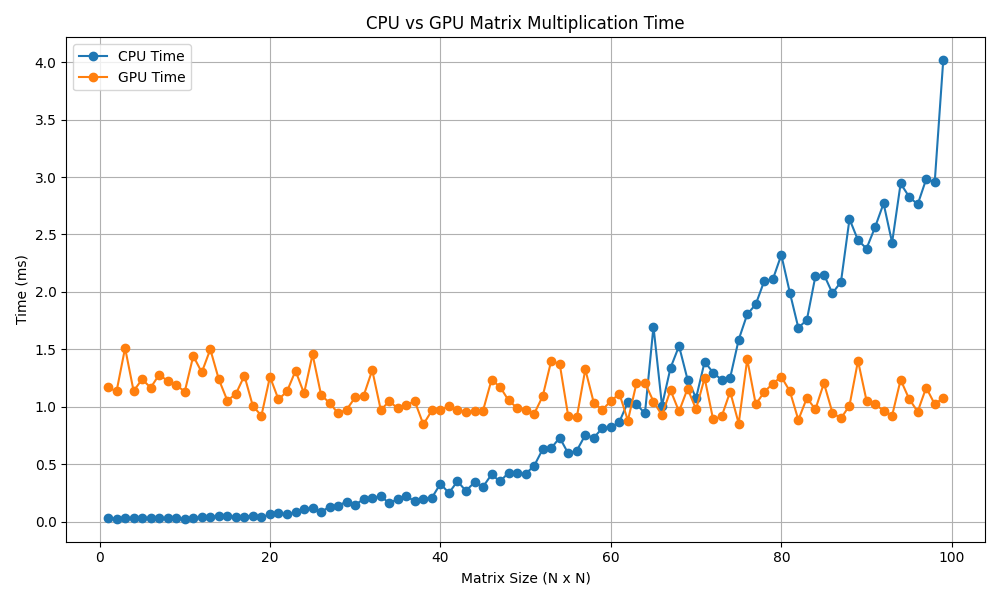
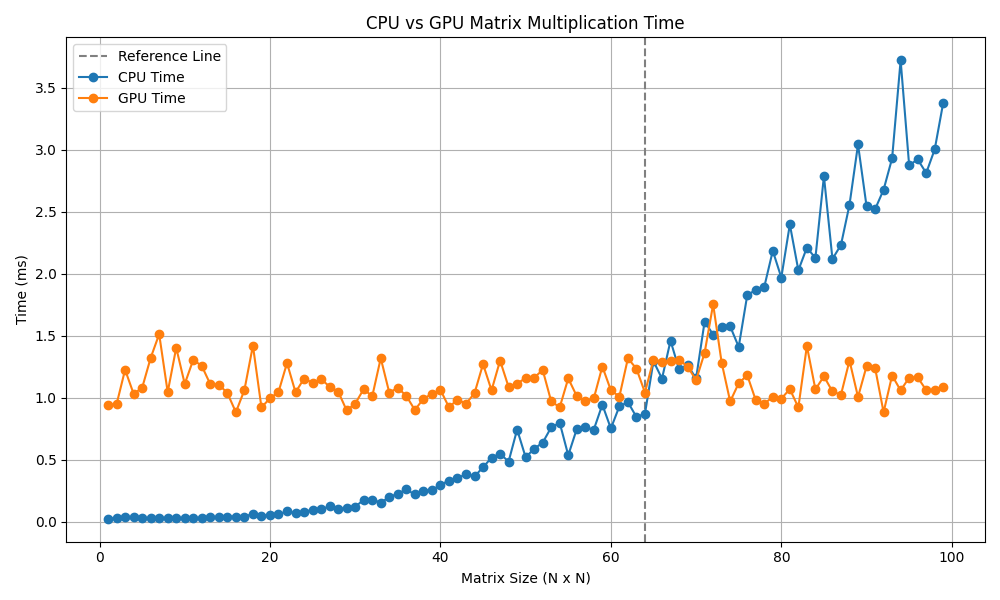
Minor Additions

diff --git a/graph.py b/graph.py
@@ -1,16 +1,15 @@
 import subprocess
 import matplotlib.pyplot as plt
 
-Ns = [i for i in range(1, 100)]  # N = 1, 2, 4, ..., 1024
+Ns = [i for i in range(1, 100)]
 cpu_times = []
 gpu_times = []
-gpu_time=0
+
 for N in Ns:
     cpu_time = gpu_time = 0
     for i in range(0,5):
         print(f"Running N = {N}")
         result = subprocess.run(["./main", str(N)], capture_output=True, text=True)
-        # You must print output like: "CPU TIME: <value> ms\nGPU TIME: <value> ms"
         lines = result.stdout.splitlines()
         for line in lines:
             if "CPU TIME" in line:
@@ -26,6 +25,7 @@ for N in Ns:
 
 # Plotting
 plt.figure(figsize=(10, 6))
+plt.axvline(x=64, color='grey', linestyle='--', label='Reference Line')
 plt.plot(Ns, cpu_times, label="CPU Time", marker="o")
 plt.plot(Ns, gpu_times, label="GPU Time", marker="o")
 plt.xlabel("Matrix Size (N x N)")

diff --git a/README.md b/README.md
@@ -13,4 +13,4 @@ Selection Task for RnD Portfolio, CGS
 
 - CUDA
 - NVIDIA GPU (with CUDA support)
-- Profiling Tools (e.g., Nsight, nvprof)
+- Profiling Tools (e.g., N Compute)
